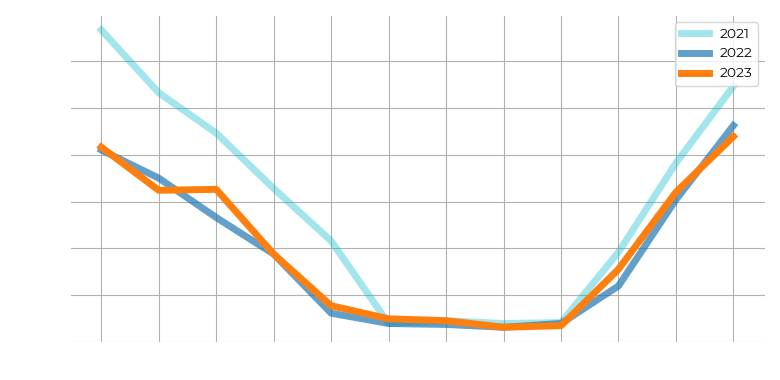
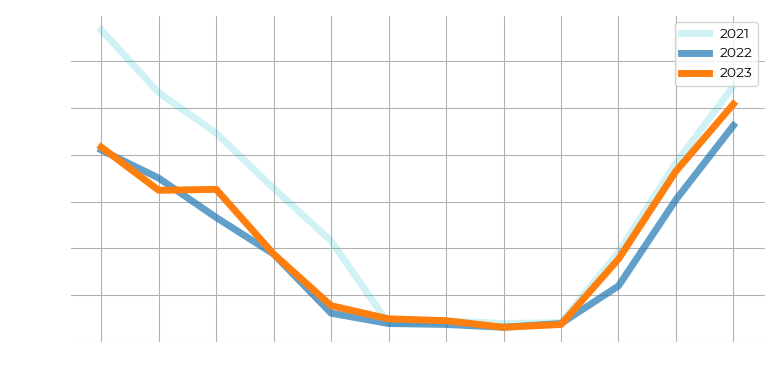
Realistischere schatting verbruik komende maanden.

diff --git a/energieverbruik.py b/energieverbruik.py
@@ -41,11 +41,11 @@ VORIG_JAAR = HUIDIG_JAAR - 1
 # INVOEREN GEGEVENS HUIDIGE JAAR
 #
 MAAND = Month.sep
-DAG_VAN_MAAND = 22
+DAG_VAN_MAAND = 30
 DAGEN_IN_MAAND = 30
-VERBRUIK_GAS = 13
-VERBRUIK_ELEKTRICITEIT = 86
-VERBRUIK_WATER = 5.5
+VERBRUIK_GAS = 19
+VERBRUIK_ELEKTRICITEIT = 123
+VERBRUIK_WATER = 9
 PRIJS_GAS = 1.39006
 PRIJS_ELEKTRICITEIT = 0.39802
 PRIJS_WATER = 1.021
@@ -56,6 +56,7 @@ VAST_LEVERING_ELE_JAAR = 83.49
 df = pd.read_csv('energiedata.csv')
 
 totVerbrGasVrgJr = df['vrbr_gas_VrgJr']
+totVerbrGasVrgJr2 = df['vrbr_gas_VrgJr2']
 totVerbrEleVrgJr = df['vrbr_ele_VrgJr']
 totVerbrEleVrgJr2 = df['vrbr_ele_VrgJr2']
 totVerbrWatVrgJr = df['vrbr_wat_VrgJr']
@@ -69,8 +70,8 @@ totVerbrWatVrgJr2 = df['vrbr_wat_VrgJr2']
 sumZomerverbruik = 0
 for i in range(5, 9):
     sumZomerverbruik += df['vrbr_gas_VrgJr'][i]
-vastGasMnd = sumZomerverbruik / 4
-vastGasJr = vastGasMnd*12
+    vastGasMnd = sumZomerverbruik / 4
+    vastGasJr = vastGasMnd*12
 
 # Bereken gemiddelde graaddagen per maand voor afgelopen vier jaar
 gemGraaddagen = ((df['grddg_2019'] + df['grddg_2020']
@@ -80,20 +81,26 @@ gemGraaddagen = ((df['grddg_2019'] + df['grddg_2020']
 sumGraaddagen = 0
 for i in gemGraaddagen:
     sumGraaddagen += i
-percGraaddagen = (gemGraaddagen / sumGraaddagen).round(2)
+    percGraaddagen = (gemGraaddagen / sumGraaddagen).round(2)
 
 # Bereken percentage verbruik per maand voor gasverbruik vorig jaar
 sumVerbrGasVrgJr = 0
 for i in totVerbrGasVrgJr:
     sumVerbrGasVrgJr += i
-percVerbrGasVrgJr = (totVerbrGasVrgJr / sumVerbrGasVrgJr)
+    percVerbrGasVrgJr = (totVerbrGasVrgJr / sumVerbrGasVrgJr)
 
 # Correctie verbruik gas vorig jaar
 corrVerbrGasVrgJr = totVerbrGasVrgJr - vastGasMnd
-sumBerbrGasVrgJr_corr = 0
+sumVerbrGasVrgJr_corr = 0
 for i in corrVerbrGasVrgJr:
-    sumBerbrGasVrgJr_corr += i
-percVerbrGasVrgJr_corr = (corrVerbrGasVrgJr / sumBerbrGasVrgJr_corr)
+    sumVerbrGasVrgJr_corr += i
+    percVerbrGasVrgJr_corr = (corrVerbrGasVrgJr / sumVerbrGasVrgJr_corr)
+
+corrVerbrGasVrgJr2 = totVerbrGasVrgJr2 - vastGasMnd
+sumVerbrGasVrgJr2_corr = 0
+for i in corrVerbrGasVrgJr2:
+    sumVerbrGasVrgJr2_corr += i
+    percVerbrGasVrgJr2_corr = (corrVerbrGasVrgJr2 / sumVerbrGasVrgJr2_corr)
 
 #
 # BEREKENINGEN ELEKTRICITEIT
@@ -106,11 +113,12 @@ gemEle = df['gem_ele']
 sumVerbrEleVrgJr = 0
 for i in totVerbrEleVrgJr:
     sumVerbrEleVrgJr += i
-percVerbrEleVrgJr = (totVerbrEleVrgJr / sumVerbrEleVrgJr)
+    percVerbrEleVrgJr = (totVerbrEleVrgJr / sumVerbrEleVrgJr)
+
 sumVerbrEleVrgJr2 = 0
 for i in totVerbrEleVrgJr2:
     sumVerbrEleVrgJr2 += i
-percVerbrEleVrgJr2 = (totVerbrEleVrgJr2 / sumVerbrEleVrgJr)
+    percVerbrEleVrgJr2 = (totVerbrEleVrgJr2 / sumVerbrEleVrgJr)
 
 #
 # BEREKENINGEN WATER
@@ -122,11 +130,12 @@ gemWat = df['gem_wat']
 sumVerbrWatVrgJr = 0
 for i in totVerbrWatVrgJr:
     sumVerbrWatVrgJr += i
-percVerbrWatVrgJr = (totVerbrWatVrgJr / sumVerbrWatVrgJr)
+    percVerbrWatVrgJr = (totVerbrWatVrgJr / sumVerbrWatVrgJr)
+    
 sumVerbrWatVrgJr2 = 0
 for i in totVerbrWatVrgJr2:
     sumVerbrWatVrgJr2 += i
-percVerbrWatVrgJr2 = (totVerbrWatVrgJr2 / sumVerbrWatVrgJr2)
+    percVerbrWatVrgJr2 = (totVerbrWatVrgJr2 / sumVerbrWatVrgJr2)
 
 #
 # BEREKENINGEN SCHATTING VERBRUIK
@@ -134,7 +143,7 @@ percVerbrWatVrgJr2 = (totVerbrWatVrgJr2 / sumVerbrWatVrgJr2)
 
 # Combineer graaddagen en verbruik vorig jaar als basis voor verwachting
 # verbruik komende jaar
-combiVerbrGas = ((percGraaddagen + percVerbrGasVrgJr_corr) / 2)
+combiVerbrGas = ((percGraaddagen + percVerbrGasVrgJr_corr + percVerbrGasVrgJr2_corr) / 3)
 
 # Combineer gemiddeld elektriciteit en verbruik VrgJr als basis voor verwachting
 combiVerbrEle = ((gemEle + percVerbrEleVrgJr + percVerbrEleVrgJr2) / 3)
@@ -170,30 +179,40 @@ if MAAND == Month.jan:
 # Als een of meerdere maanden afgerond zijn
 else:
     gasMndnNJr = 0
+    eleMndnNJr = 0
+    watMndnNJr = 0
     for i in range(0, MAAND):
         schatVerbrGasHdgJr[i] = df['vrbr_gas_HdgJr'][i]
         verbrGasHdgJr += schatVerbrGasHdgJr[i]
         gasMndnNJr += (schatVerbrGasHdgJr[i] / combiVerbrGas[i])
         schatVerbrEleHdgJr[i] = df['vrbr_ele_HdgJr'][i]
         verbrEleHdgJr += schatVerbrEleHdgJr[i]
+        eleMndnNJr += (schatVerbrEleHdgJr[i] / combiVerbrEle[i])
         schatVerbrWatHdgJr[i] = df['vrbr_wat_HdgJr'][i]
         verbrWatHdgJr += schatVerbrWatHdgJr[i]
+        watMndnNJr += (schatVerbrWatHdgJr[i] / combiVerbrWat[i])
     gasMndnNJr /= (MAAND-1 + 1)
+    eleMndnNJr /= (MAAND-1 + 1)
+    watMndnNJr /= (MAAND-1 + 1)
     for i in range(MAAND, 12):
         if i == MAAND:
             schatVerbrGasHdgJr[i] = ((verbrGasMnd / combiVerbrGas[MAAND])
-                                    * combiVerbrGas[i] + vastGasMnd).round(2)
+                                     * combiVerbrGas[i] + vastGasMnd).round(2)
+            schatVerbrEleHdgJr[i] = ((verbrEleMnd / combiVerbrEle[MAAND])
+                                     * combiVerbrEle[i]).round(2)
+            schatVerbrWatHdgJr[i] = ((verbrWatMnd / combiVerbrWat[MAAND])
+                                     * combiVerbrWat[i]).round(2)
         else:
             schatVerbrGasHdgJr[i] = ((((verbrGasMnd / combiVerbrGas[MAAND])
-                                    + gasMndnNJr)/2) * combiVerbrGas[i]
-                                    + vastGasMnd).round(2)
-        verbrGasHdgJr += schatVerbrGasHdgJr[i]
-        schatVerbrEleHdgJr[i] = ((verbrEleMnd / combiVerbrEle[MAAND])
-                                * combiVerbrEle[i]).round(2)
-        verbrEleHdgJr += schatVerbrEleHdgJr[i]
-        schatVerbrWatHdgJr[i] = ((verbrWatMnd / combiVerbrWat[MAAND])
-                                * combiVerbrWat[i]).round(2)
-        verbrWatHdgJr += schatVerbrWatHdgJr[i]
+                                       + gasMndnNJr)/2) * combiVerbrGas[i]
+                                     + vastGasMnd).round(2)
+            schatVerbrEleHdgJr[i] = ((((verbrEleMnd / combiVerbrEle[MAAND])
+                                       + eleMndnNJr)/2) * combiVerbrEle[i]).round(2)
+            schatVerbrWatHdgJr[i] = ((((verbrWatMnd / combiVerbrWat[MAAND])
+                                       + watMndnNJr)/2)* combiVerbrWat[i]).round(2)
+            verbrGasHdgJr += schatVerbrGasHdgJr[i]
+            verbrEleHdgJr += schatVerbrEleHdgJr[i]
+            verbrWatHdgJr += schatVerbrWatHdgJr[i]
 
 # Schatting totaal verbruik
 schatTotGas = verbrGasHdgJr
@@ -261,7 +280,7 @@ def PrintOutput():
                  + ("\tWater: %d m3 (EUR %d)\n" % (verschWat, (verschWat * PRIJS_WATER)))
                  + ("Bedragen\n")
                  + ("\tTarieven: [gas %.2f / m3] [ele %.2f / kWh] [wat %.2f / m3]\n"
-                   % (PRIJS_GAS, PRIJS_ELEKTRICITEIT, PRIJS_WATER))
+                    % (PRIJS_GAS, PRIJS_ELEKTRICITEIT, PRIJS_WATER))
                  + ("\tMaandbedrag: EUR %d\n") % maandbedrag)
     # Toon uitvoer overzicht en totalen
     #print(str_overzicht)
@@ -313,7 +332,7 @@ def GrafiekGas():
     # Grafiek gasverbruik
     plotGas.figure()
     plotGas.plot(maanden, df['vrbr_gas_VrgJr2'], color='tab:cyan', label="2021",
-                 linewidth=5, alpha=0.4)
+                 linewidth=5, alpha=0.2)
     plotGas.plot(maanden, df['vrbr_gas_VrgJr'], color='tab:blue', label="2022",
                  linewidth=5, alpha=0.7)
     plotGas.plot(maanden, schatVerbrGasHdgJr, color='tab:orange',
@@ -334,7 +353,7 @@ def GrafiekElektriciteit():
     # Grafiek elektriciteitsverbruik
     plotEle.figure()
     plotEle.plot(maanden, df['vrbr_ele_VrgJr2'], color='tab:cyan', label="2021",
-                 linewidth=5, alpha=0.4)
+                 linewidth=5, alpha=0.2)
     plotEle.plot(maanden, df['vrbr_ele_VrgJr'], color='tab:blue', label="2022",
                  linewidth=5, alpha=0.7)
     plotEle.plot(maanden, schatVerbrEleHdgJr,
@@ -355,7 +374,7 @@ def GrafiekWater():
     # Grafiek waterverbruik
     plotWat.figure()
     plotWat.plot(maanden, df['vrbr_wat_VrgJr2'], color='tab:cyan', label="2021",
-                 linewidth=5, alpha=0.4)
+                 linewidth=5, alpha=0.2)
     plotWat.plot(maanden, df['vrbr_wat_VrgJr'], color='tab:blue', label="2022",
                  linewidth=5, alpha=0.7)
     plotWat.plot(maanden, schatVerbrWatHdgJr, color='tab:orange',
